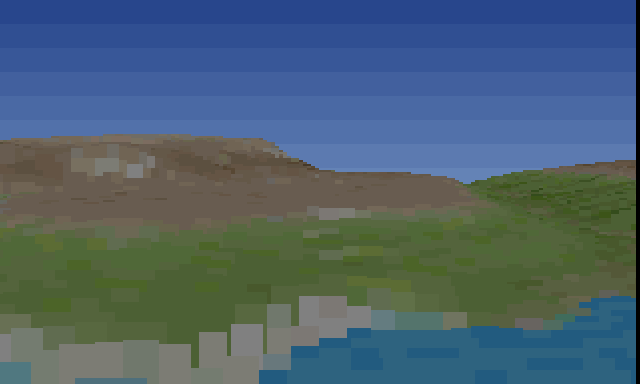
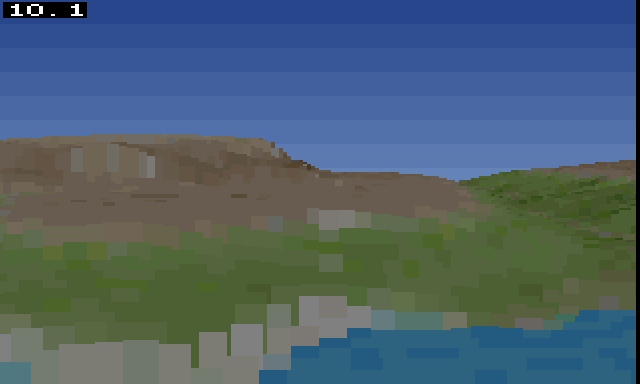
Bring the docs up to date with where the engine actually is
CLAUDE.md still said the renderer was all C at 14 fps, and still claimed the
emulator runs at real time under -sleepless, which is exactly the mistake that
made the 14 in the first place. Both corrected, along with the build commands,
the profiling workflow and a note on where the HUD draws.

README gets the same treatment and a screenshot with the FPS readout in it.

diff --git a/CLAUDE.md b/CLAUDE.md
@@ -4,15 +4,16 @@ This file provides guidance to Claude Code (claude.ai/code) when working with co
 
 ## Project
 
-A MEGA65 heightfield voxel flight simulator / drone search-and-rescue game, written in C (Calypsi) with the rendering inner loop destined for 45GS02 assembly. `vision.md` holds the full technical and gameplay design; `todo.txt` is the authoritative "what's next" and should be updated as work lands.
+A MEGA65 heightfield voxel flight simulator / drone search-and-rescue game, written in C (Calypsi) with the rendering inner loop in 45GS02 assembly. `vision.md` holds the full technical and gameplay design; `todo.txt` is the authoritative "what's next" and should be updated as work lands.
 
-Currently: a flyable voxel engine at roughly 14 fps, entirely in C.
+Currently: a flyable voxel engine at about 10 fps, with an FPS readout as the first piece of the HUD. No game yet.
 
 ## Build and run
 
 ```sh
-make run     # build build/sar.d81 and boot it in xemu
-make prg     # skip the disk, run the PRG directly (no resources available)
+make run          # build build/sar.d81 and boot it in xemu
+make prg          # skip the disk, run the PRG directly (no resources available)
+make PROFILE=0    # without the per-column instrumentation
 make clean
 ```
 
@@ -21,9 +22,12 @@ make clean
 ```sh
 timeout -s INT 100 xemu-xmega65 -besure -headless -sleepless \
     -8 build/sar.d81 -screenshot out.png -dumpmem mem.bin
+python3 tools/profread.py mem.bin
 ```
 
-`-dumpmem` writes 384 KB of chip RAM, so `mem.bin[0x10000]` onwards is the framebuffer and `mem.bin[0x40000]` the heightmap — invaluable for telling "the renderer is wrong" apart from "the display is wrong". The emulator runs at real-time speed even with `-sleepless`, so wall-clock timing is meaningful. There are no tests and no linter.
+`-sleepless` is fine here — see Performance for why it must never be used to time anything from the outside.
+
+`-dumpmem` writes 384 KB of chip RAM, so `mem.bin[0x10000]` onwards is the framebuffer and `mem.bin[0x40000]` the heightmap. Reading a framebuffer back and de-swizzling it with the column-strip formula below is the fastest way to tell "the renderer is wrong" apart from "the display is wrong"; both have happened. There are no tests and no linter.
 
 ## Toolchain
 
@@ -66,6 +70,8 @@ address(x, y) = base + (x >> 3) * FB_STRIDE + (x & 7) + y * 8
 The renderer relies on this everywhere. Double-buffer flips are just a rewrite of `SCRNPTR` between two prepared screen tables — no pixels move. Terrain spans plus the sky fill write every pixel exactly once per frame, so there is no clear pass.
 
 Two register notes: `CHRXSCL` (`$D05A`) is source pixels per output pixel in 120ths, so **60 doubles the width** and 240 halves it; and the hot registers (`$D05D` bit 7) must be turned off first or any write to a legacy VIC-II register makes the VIC-IV recompute the layout and undo the setup.
+
+`src/hud.c` draws over the finished frame with the same addressing, using two palette entries (240 ink, 241 paper) that `tools/convmap.py` reserves.
 
 ## Resources
 

diff --git a/README.md b/README.md
@@ -1,7 +1,8 @@
 # Search and Rescue
 
 A 1990s-style heightfield voxel flight simulator for the [MEGA65](https://mega65.org/),
-written in C for the [Calypsi](https://github.com/hth313/Calypsi-tool-chains) toolchain.
+written in C for the [Calypsi](https://github.com/hth313/Calypsi-tool-chains) toolchain,
+with the renderer's inner loop in 45GS02 assembly.
 
 ![The engine rendering terrain from the VoxelSpace sample maps](screenshot.png)
 
@@ -15,11 +16,14 @@ Early. There is a voxel engine you can fly around in, and not yet a game.
 
 - 160x192 full-colour display, hardware-stretched to 320 pixels wide, double buffered
 - 256x256 height and colour maps loaded from the boot disk
-- Front-to-back ray march with a y-buffer, fixed point throughout
-- About 14 frames per second, all C so far
+- Front-to-back ray march with a y-buffer, fixed point throughout, inner loop in assembly
+- About 10 frames per second, up from 0.74 when the renderer was all C
+- An FPS readout, which is as much HUD as there is so far
 
-The renderer's inner loop is the next job, and it is where essentially all the time
-goes. See `todo.txt`.
+Getting there meant building a profiler first (`src/profile.c`, read with
+`tools/profread.py`) rather than guessing. The compiler's 32-bit multiply turned out
+to be 64% of the frame at 2203 cycles a go, against 85 on the hardware multiplier.
+See `todo.txt` for what is next.
 
 ## Building
 
@@ -48,11 +52,11 @@ boot, and the converted maps alongside it as separate files.
 
 ## Layout
 
-    src/          engine: display, DMA, resource loading, renderer, input
-    tools/        convmap.py, turns the source PNGs into MEGA65 resources
+    src/          engine: display, DMA, resource loading, renderer, input, HUD
+    tools/        convmap.py builds the map resources, profread.py reads profiles
     resources/    source height and colour maps
     vision.md     technical and gameplay design
-    CLAUDE.md     memory map, display conventions and hardware notes
+    CLAUDE.md     memory map, display conventions, hardware notes, measurements
 
 ## Credits
 
